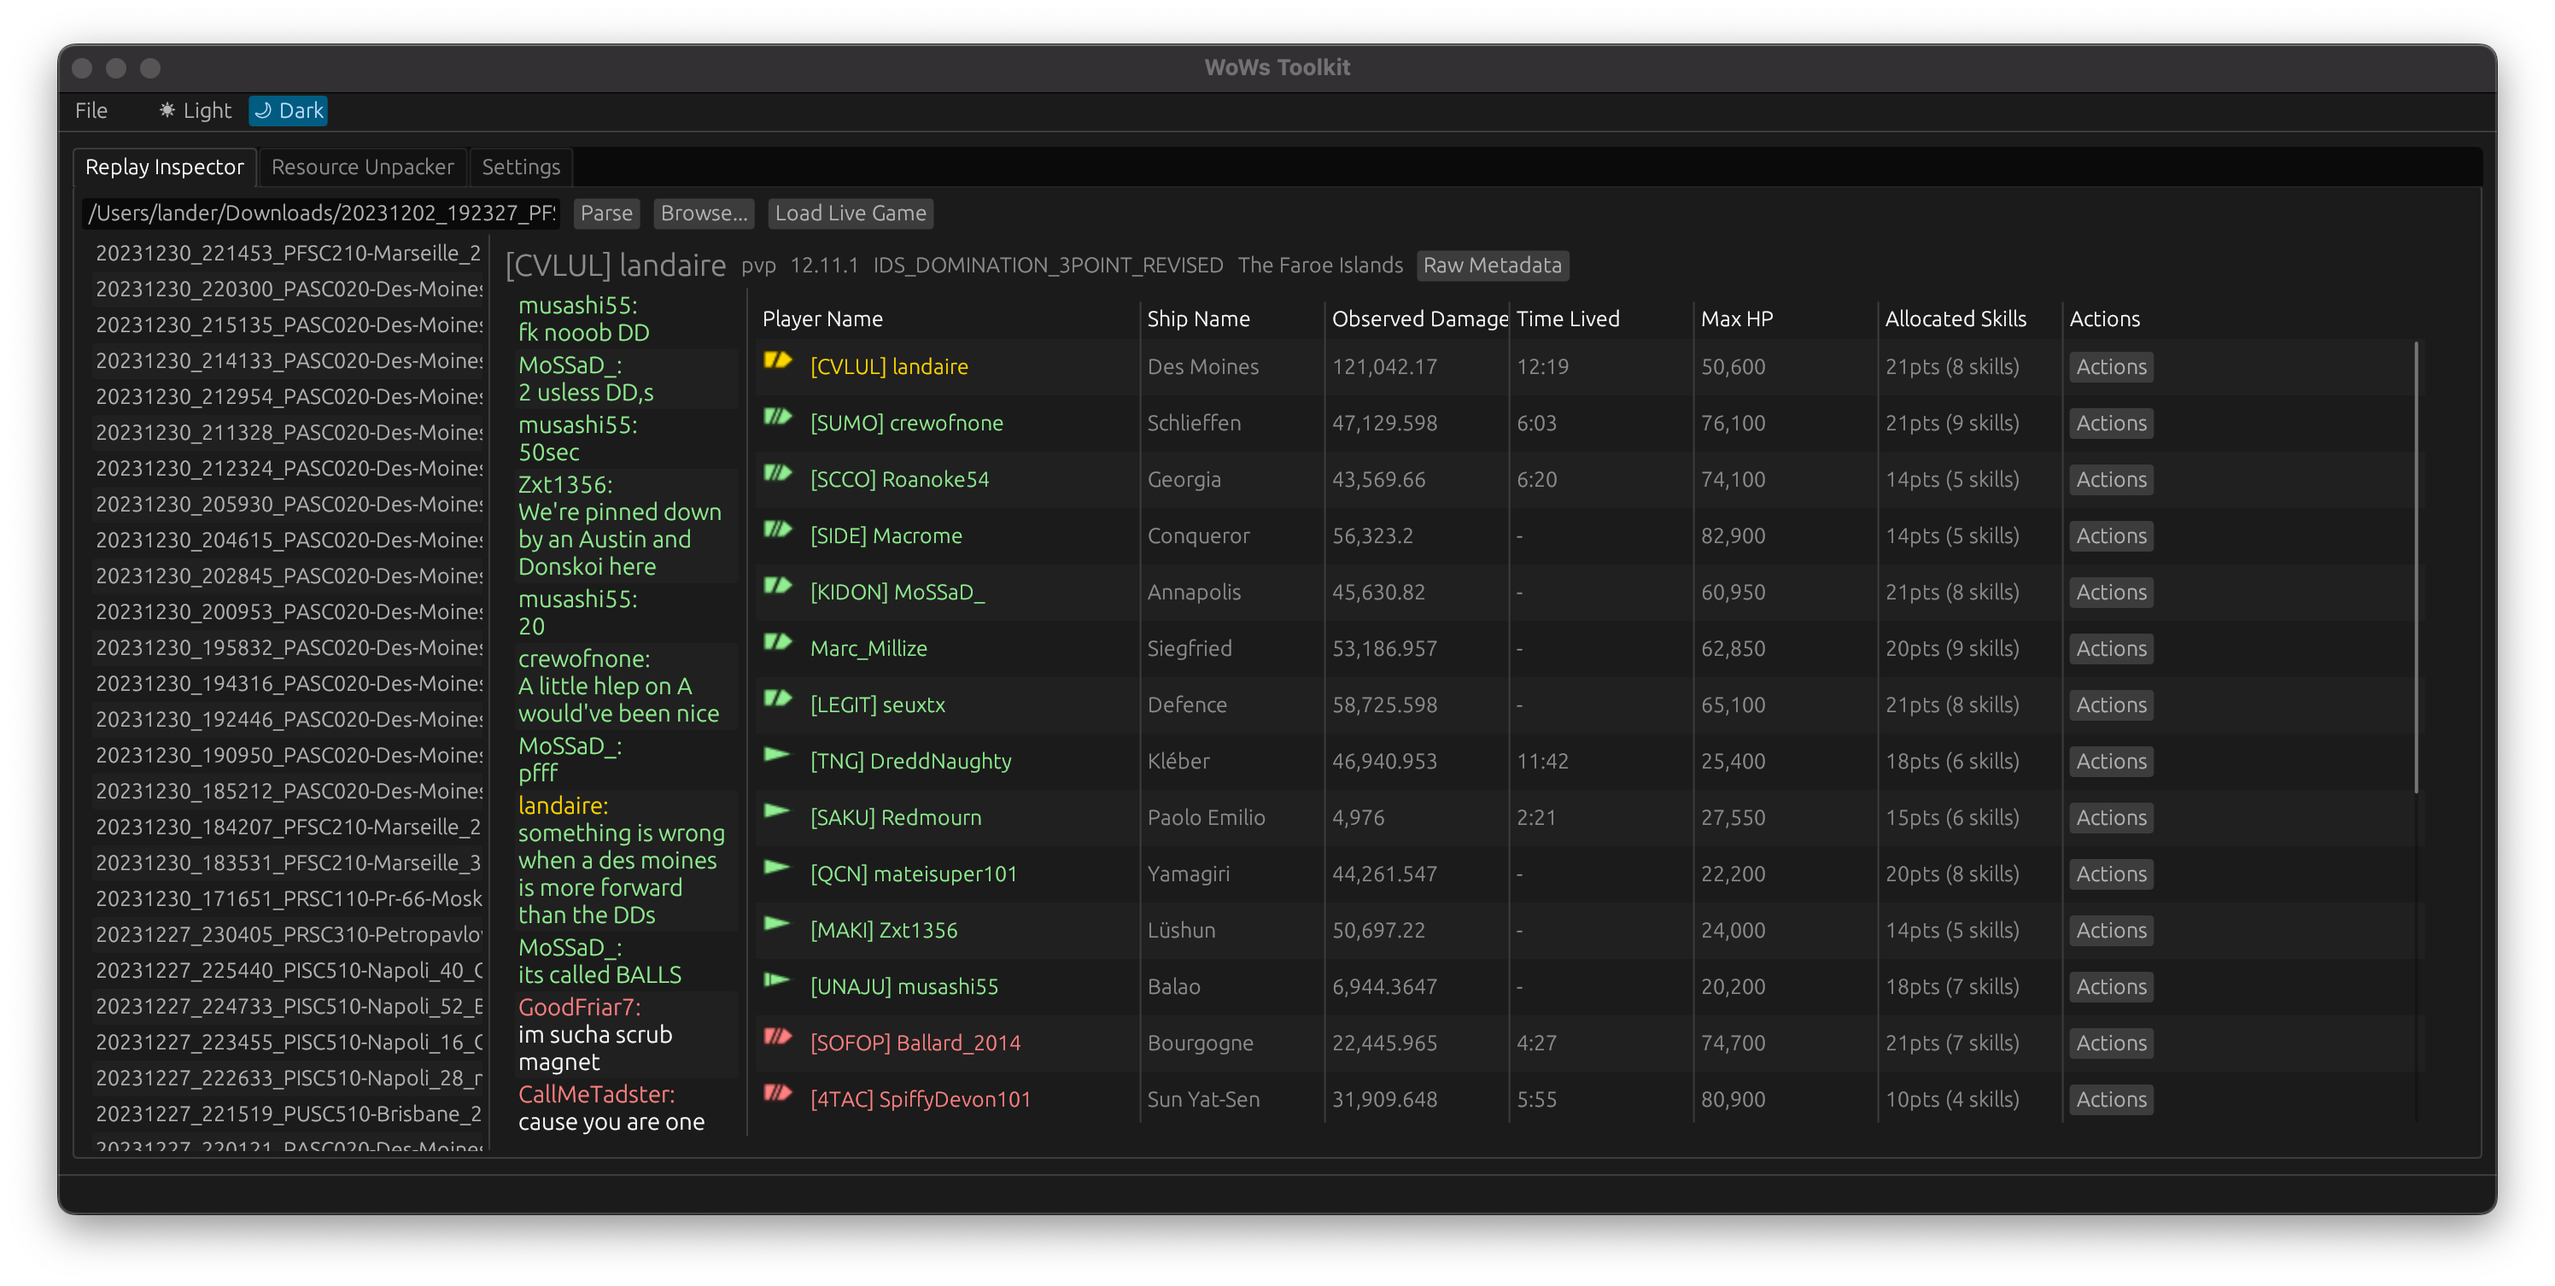
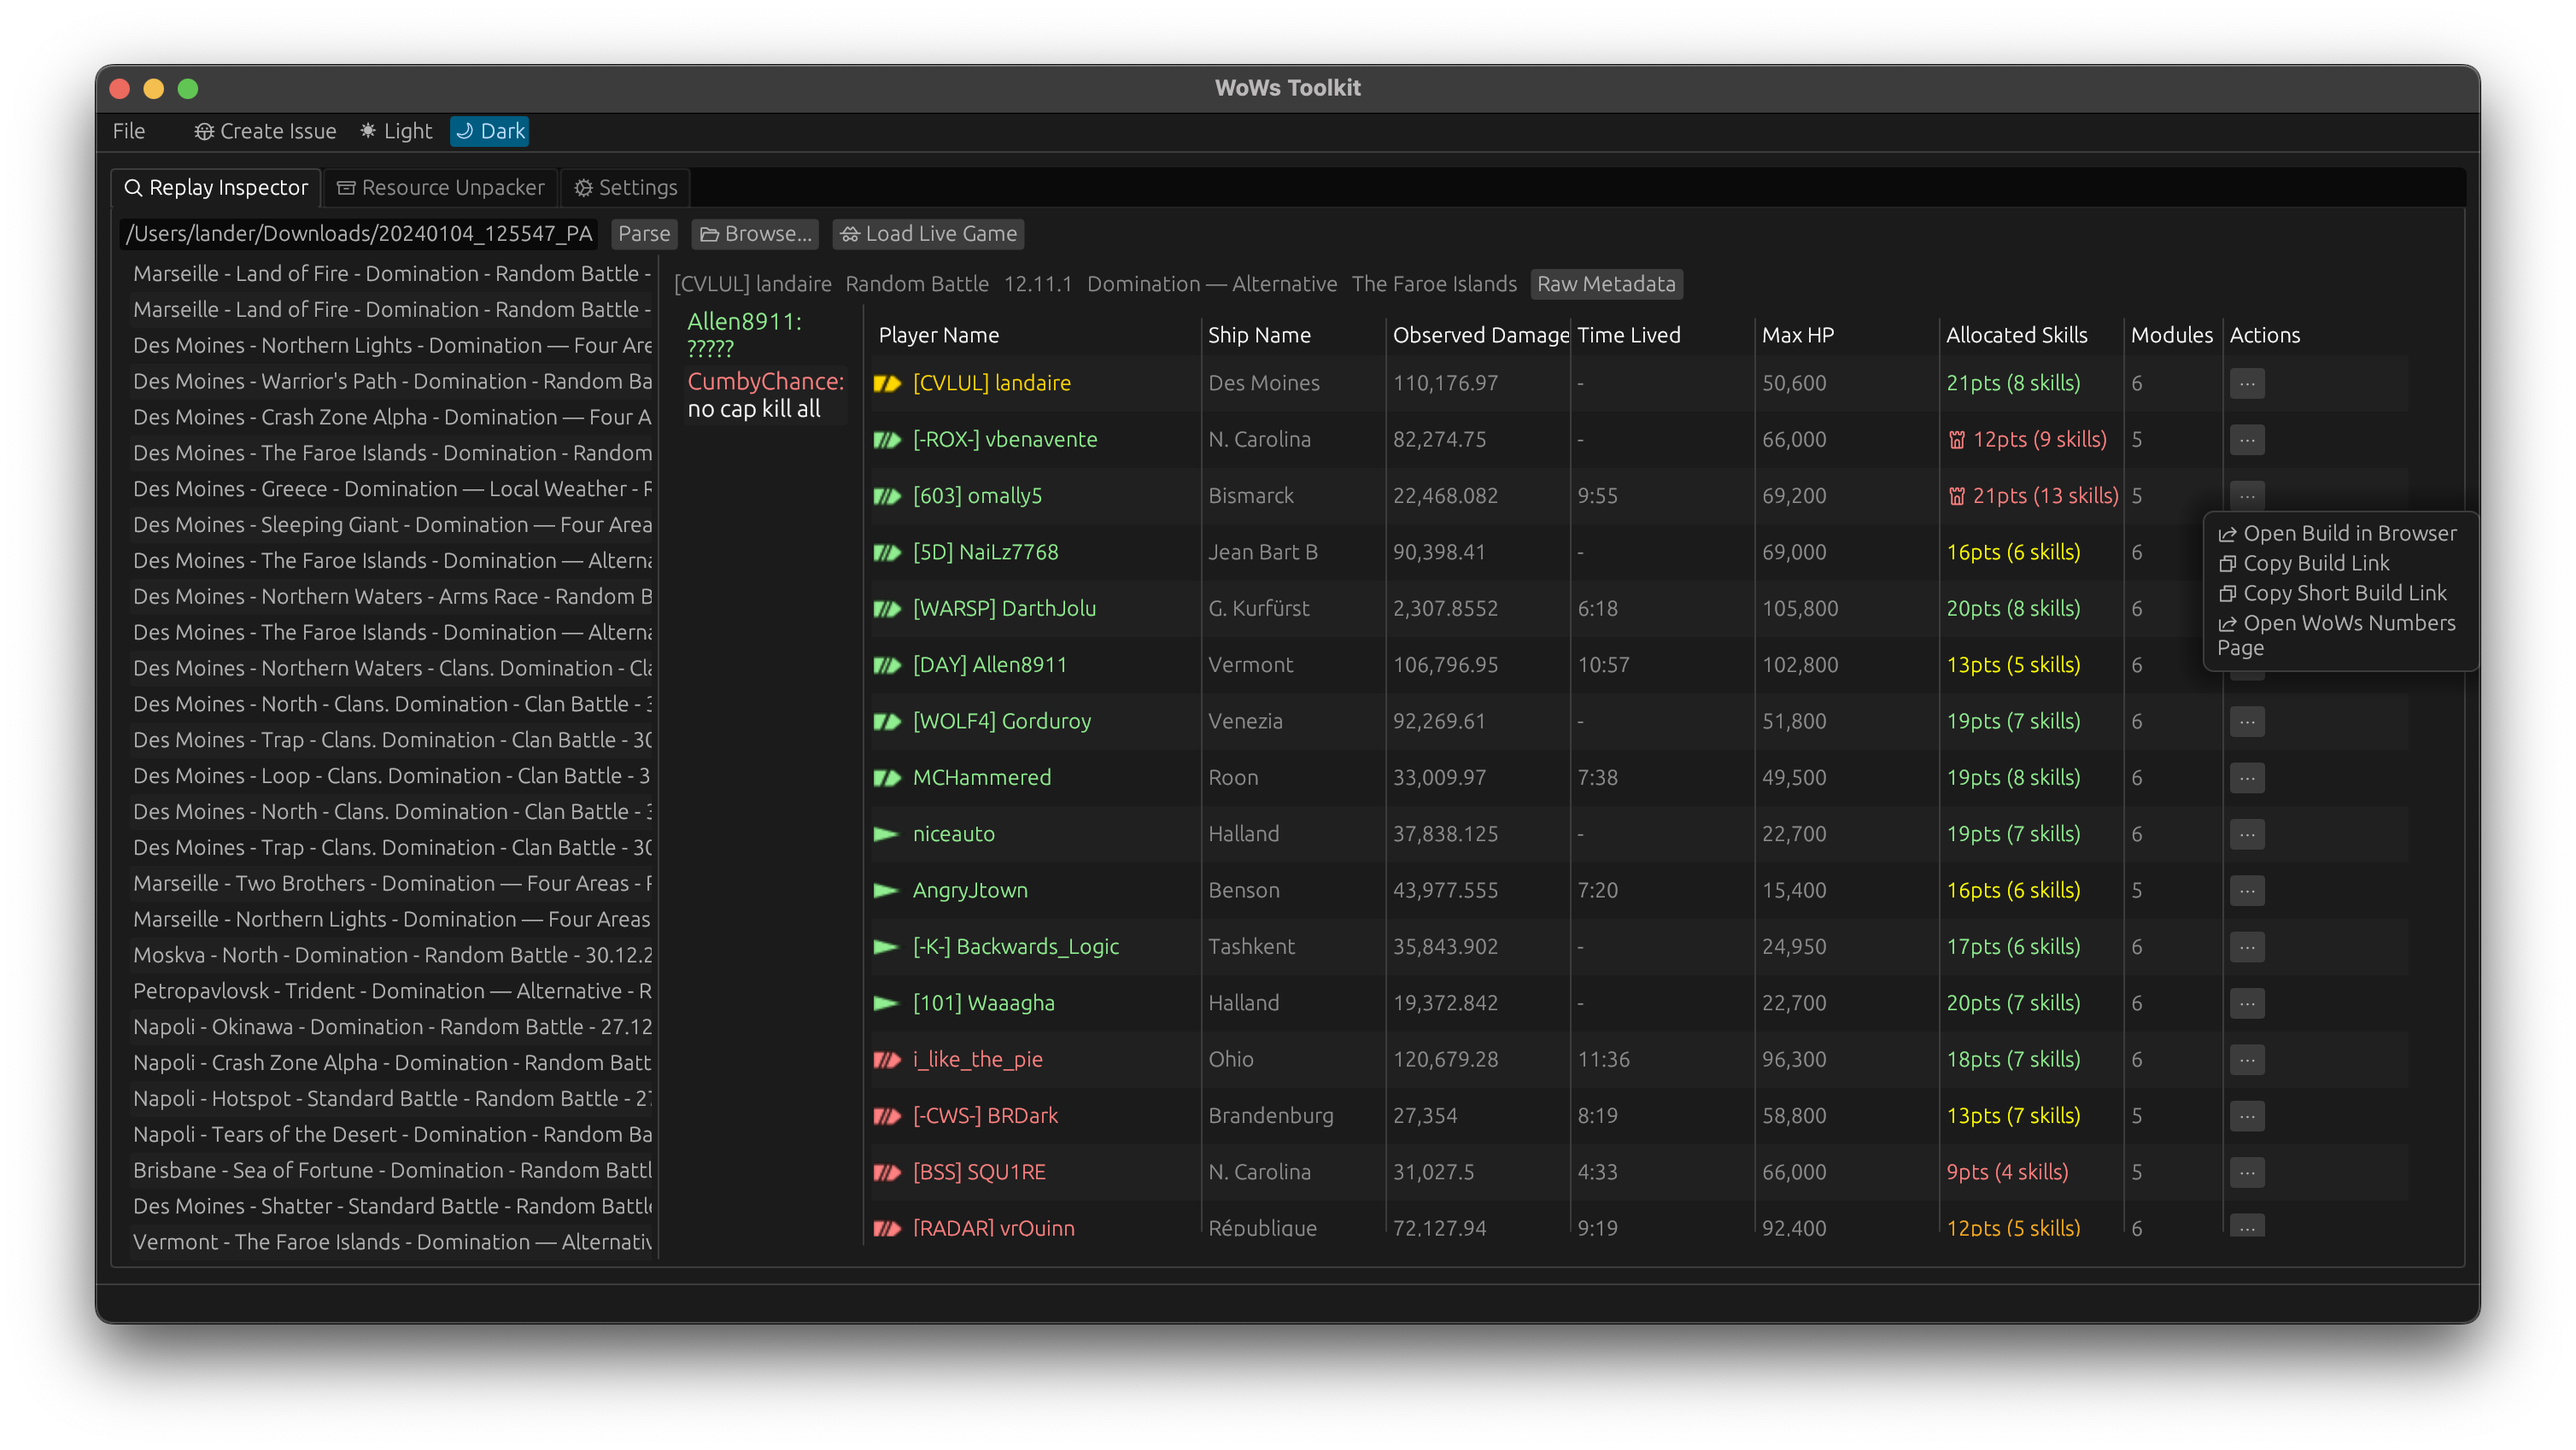
Update screenshots + readme

diff --git a/README.md b/README.md
@@ -6,12 +6,18 @@ This is a toolkit for interacting with World of Warships files
 
 ![WoWs Toolkit Unpacker Tab](assets/wows_toolkit_unpacker_screenshot.png)
 
+![WoWs Toolkit Unpacker Tab With Filtering](assets/wows_toolkit_unpacker_filtering.png)
+
 ## Usage
 
 1. Run the application
-2. Set the World of Warships directory in the settings tab
+2. Set the World of Warships directory in the settings tab (defaults to `C:\Games\World_of_Warships` if it exists)
 3. ???
 4. Do things
+
+## Pre-built Binaries
+
+Pre-built binaries for Windows are provided at https://github.com/landaire/wows-toolkit/releases. For all other platforms you will have to compile yourself.
 
 ## Building Locally
 
